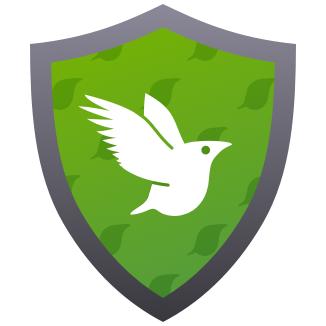
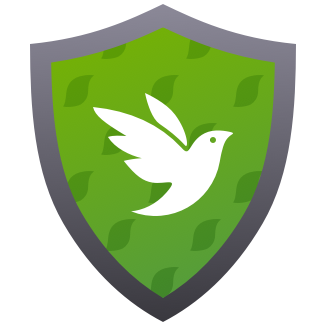
Added rebranded iNaturalist assets to Seek

diff --git a/assets/logos.js b/assets/logos.js
@@ -1,14 +1,15 @@
 const logos = {
   seek: require( "./logos/logo-seek-splash.png" ),
-  bird: require( "./logos/logo-inaturalist-bird.png" ),
-  wwfop: require( "./logos/logos-wwfop.png"),
+  bird: require( "./logos/iNatStatsSpeciesDetail-Bird.png" ),
+  wwfop: require( "./logos/logos-wwfop.png" ),
   op: require( "./logos/logo-OPwhite.png" ),
   opBlack: require( "./logos/logo-OPblack.png" ),
   iNat: require( "./logos/logo-inaturalist.png" ),
   casNatGeo: require( "./logos/logos-CAS-NatGeo.png" ),
   hhmi: require( "./logos/logo-hhmi.png" ),
   netflix: require( "./logos/logo-netflix.png" ),
-  wwf: require( "./logos/logo-wwf.png" )
+  wwf: require( "./logos/logo-wwf.png" ),
+  wordmark: require( "./logos/iNatStats-Wordmark.png" )
 };
 
 export default logos;

diff --git a/components/Camera/ARCamera.js b/components/Camera/ARCamera.js
@@ -28,7 +28,6 @@ import CameraError from "./CameraError";
 import { getTaxonCommonName, checkIfCameraLaunched } from "../../utility/helpers";
 import { movePhotoToAppStorage, resizeImage } from "../../utility/photoHelpers";
 import { dirPictures, dirModel, dirTaxonomy } from "../../utility/dirStorage";
-import { checkMemory } from "../../utility/test";
 
 const { width } = Dimensions.get( "window" );
 
@@ -360,7 +359,6 @@ class ARCamera extends Component<Props> {
             this.handleResumePreview();
             this.setFocusedScreen( true );
             this.addListenerForAndroid();
-            // checkMemory();
           }}
         />
         <RNModal

diff --git a/components/Achievements/AchievementsScreen.js b/components/Achievements/AchievementsScreen.js
@@ -28,7 +28,6 @@ import SafeAreaView from "../UIComponents/SafeAreaView";
 import { checkIfChallengeAvailable } from "../../utility/dateHelpers";
 import Spacer from "../UIComponents/iOSSpacer";
 import { fetchNumberSpeciesSeen } from "../../utility/helpers";
-import { checkMemory } from "../../utility/test";
 
 type Props = {
   +navigation: any
@@ -184,7 +183,6 @@ class AchievementsScreen extends Component<Props> {
             this.fetchBadges();
             this.fetchChallenges();
             this.fetchSpeciesCount();
-            // checkMemory();
           }}
         />
         <Modal

diff --git a/components/iNatStats.js b/components/iNatStats.js
@@ -148,7 +148,7 @@ class iNatStatsScreen extends Component<Props> {
           <StatusBar barStyle="dark-content" />
           <BackArrow green navigation={navigation} />
           <View style={styles.logoContainer}>
-            <Image source={logos.iNat} style={styles.logo} />
+            <Image source={logos.wordmark} style={styles.logo} />
           </View>
           <View style={styles.headerMargin} />
           <Image source={backgrounds.heatMap} style={styles.heatMap} />

diff --git a/assets/notifications.js b/assets/notifications.js
@@ -1,5 +1,5 @@
 const notifications = {
-  bird: require( "./logos/logo-inaturalist-bird.png" ),
+  bird: require( "./logos/iNatStatsSpeciesDetail-Bird.png" ),
   badge_empty: require( "./badges/Badge_Empty.png" ),
   op: require( "./logos/logo-OPblack.png" )
 };
